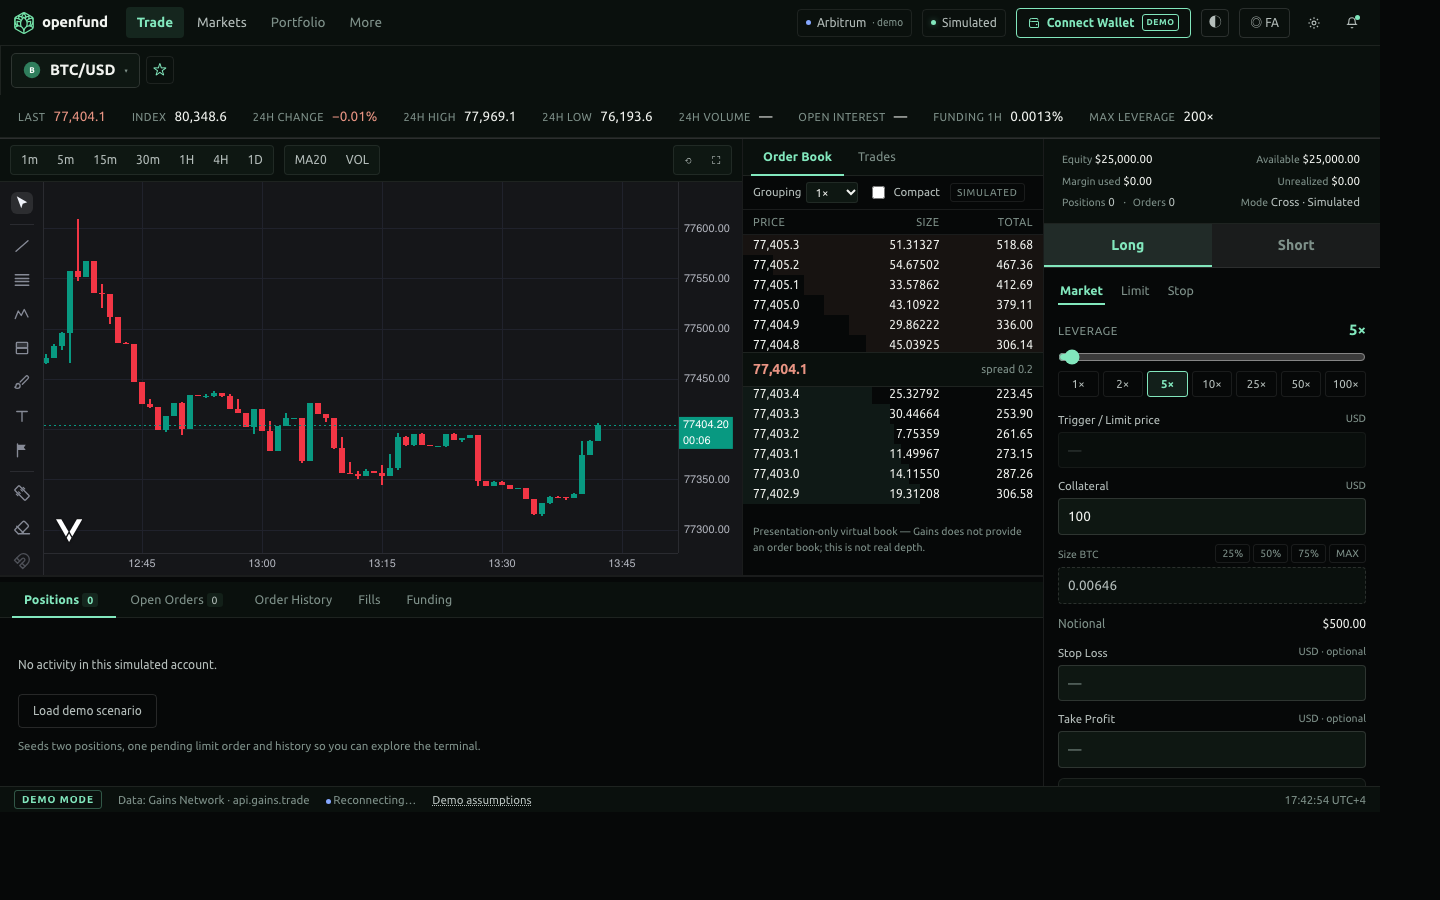
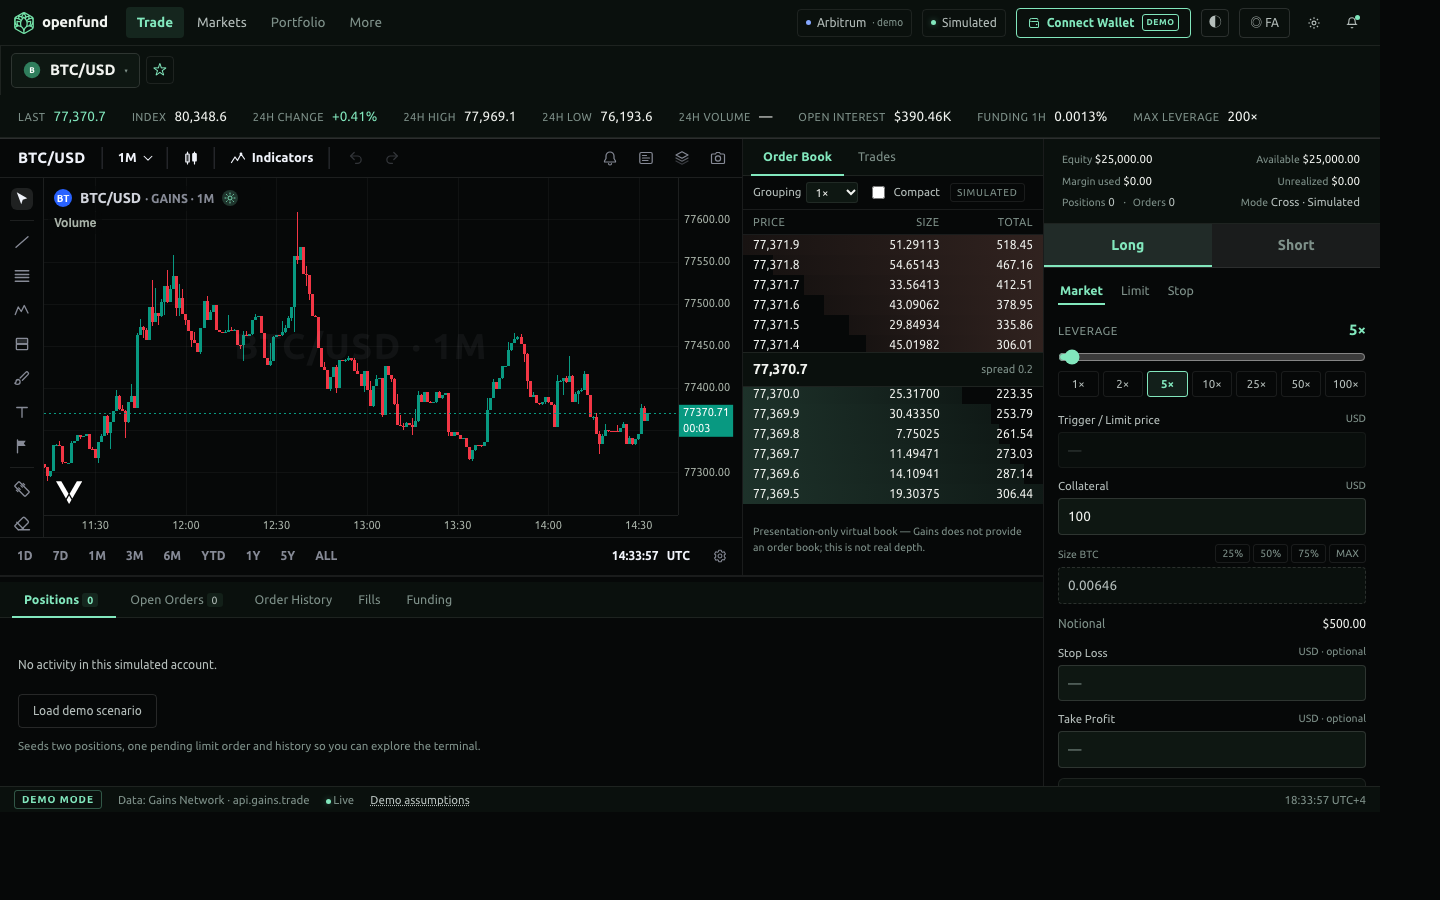
fix(terminal): NaN in dropdown 24h column; refresh doc screenshots
- paintDropdown read the cache wrapper instead of its data (changePct
  undefined -> 'NaN%'); fmt.pct now guards non-finite values.
- Verified against live data: all 5 selector columns real (price ticks,
  24h change, funding, open interest); 0 NaN occurrences.
- docs/images refreshed with the Vela-workspace UI + selector shot.

diff --git a/dist/terminal.html b/dist/terminal.html
@@ -9,7 +9,7 @@
 <link rel="icon" href="assets/mark-mint.svg">
 <link rel="preload" href="assets/openfund-persian-400-v4.woff2" as="font" type="font/woff2" crossorigin>
 <link rel="preload" href="assets/openfund-persian-600-v4.woff2" as="font" type="font/woff2" crossorigin>
-<link rel="stylesheet" href="terminal.css?v=5">
+<link rel="stylesheet" href="terminal.css?v=6">
 </head>
 <body>
 <a class="skip" href="#main">Skip to content</a>
@@ -322,10 +322,10 @@
   <div class="dlg-actions"><button class="ghost-btn dlg-close">Close</button></div>
 </dialog>
 
-<script src="gains-adapter.js?v=5"></script></script>
+<script src="gains-adapter.js?v=6"></script></script>
 <script src="assets/vela-workspace.global.min.js"></script>
-<script src="vela-bridge.js?v=5"></script>
-<script src="terminal-data.js?v=5"></script>
-<script src="terminal.js?v=5"></script>
+<script src="vela-bridge.js?v=6"></script>
+<script src="terminal-data.js?v=6"></script>
+<script src="terminal.js?v=6"></script>
 </body>
 </html>

diff --git a/dist/terminal.js b/dist/terminal.js
@@ -358,7 +358,7 @@ function paintDropdown(rebuild){
         <span class="mk">${iconHTML(m.symbol)}<b>${m.symbol}</b><small>${t('cat.' + (m.group === 'commodities' ? 'commodity' : m.group))}</small>
           <span class="st" data-star="${m.symbol}">${S.favorites.has(m.symbol)?'★':'☆'}</span></span>
         <span class="num r" data-cell="price">${p ? fmt.price(p, d) : '—'}</span>
-        <span class="num r ${st ? (st.changePct >= 0 ? 'up' : 'down') : ''}" data-cell="chg">${st ? fmt.pct(st.changePct) : '·'}</span>
+        <span class="num r ${st ? (st.data.changePct >= 0 ? 'up' : 'down') : ''}" data-cell="chg">${st ? fmt.pct(st.data.changePct) : '·'}</span>
         <span class="num r" data-cell="fund">${fund != null && Number.isFinite(fund) ? (fund*100).toFixed(3)+'%' : '—'}</span>
         <span class="num r" data-cell="oi">${oi ? '$'+fmt.compact(oi.total) : '—'}</span>
       </li>`;

diff --git a/dist/terminal-data.js b/dist/terminal-data.js
@@ -23,7 +23,7 @@ const fmt = {
     if (a >= 1e3) return (v / 1e3).toFixed(2) + 'K';
     return v.toFixed(2);
   },
-  pct(v){ return (v > 0 ? '+' : v < 0 ? '−' : '') + Math.abs(v).toFixed(2) + '%'; },
+  pct(v){ if (!Number.isFinite(v)) return '—'; return (v > 0 ? '+' : v < 0 ? '−' : '') + Math.abs(v).toFixed(2) + '%'; },
   time(ts){ const d = new Date(ts * 1000); return d.toLocaleTimeString('en-GB', {hour12: false}); },
   dt(ts){ const d = new Date(ts * 1000); return d.toLocaleDateString('en-GB', {day:'2-digit', month:'short'}) + ' ' + d.toLocaleTimeString('en-GB', {hour12:false, hour:'2-digit', minute:'2-digit'}); }
 };
